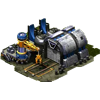
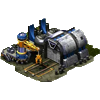
Updated background for realistic render and testing agent env name

diff --git a/missile_defense_gym.py b/missile_defense_gym.py
@@ -44,6 +44,7 @@ class MissileDefenseEnv(MultiAgentEnv):
                 self.base_png = pygame.image.load("./pygame_asset/base.png").convert_alpha()
                 self.missile_png = pygame.image.load("./pygame_asset/missile.png").convert_alpha()
                 self.drone_png = pygame.image.load("./pygame_asset/drone.png").convert_alpha()
+                self.background_png = pygame.image.load("./pygame_asset/background.png").convert_alpha()
             pygame.display.set_caption("Missile Defense System")
             self.clock = pygame.time.Clock()
         self.agents = [f"drone_{i}" for i in range(NUM_DRONES)]
@@ -164,6 +165,8 @@ class MissileDefenseEnv(MultiAgentEnv):
         """
         self.screen.fill(WHITE)
         if self.realistic_render:
+            background_rect = self.background_png.get_rect(center=(SCREEN_WIDTH // 2, SCREEN_HEIGHT // 2))
+            self.screen.blit(self.background_png, background_rect)
             base_rect = self.base_png.get_rect(center=self.base_pos)
             self.screen.blit(self.base_png, base_rect)
             missile_direction = self.missile_velocity

diff --git a/testing_agent.py b/testing_agent.py
@@ -5,7 +5,7 @@ from missile_defense_gym import *
 import os
 
 # Register the custom environment
-env_name = "simple_multi_agent_env"
+env_name = "missile_defense_env"
 register_env(env_name, lambda config: MissileDefenseEnv(config, render=False))
 
 # Define the checkpoint path (update this to your actual checkpoint location)
